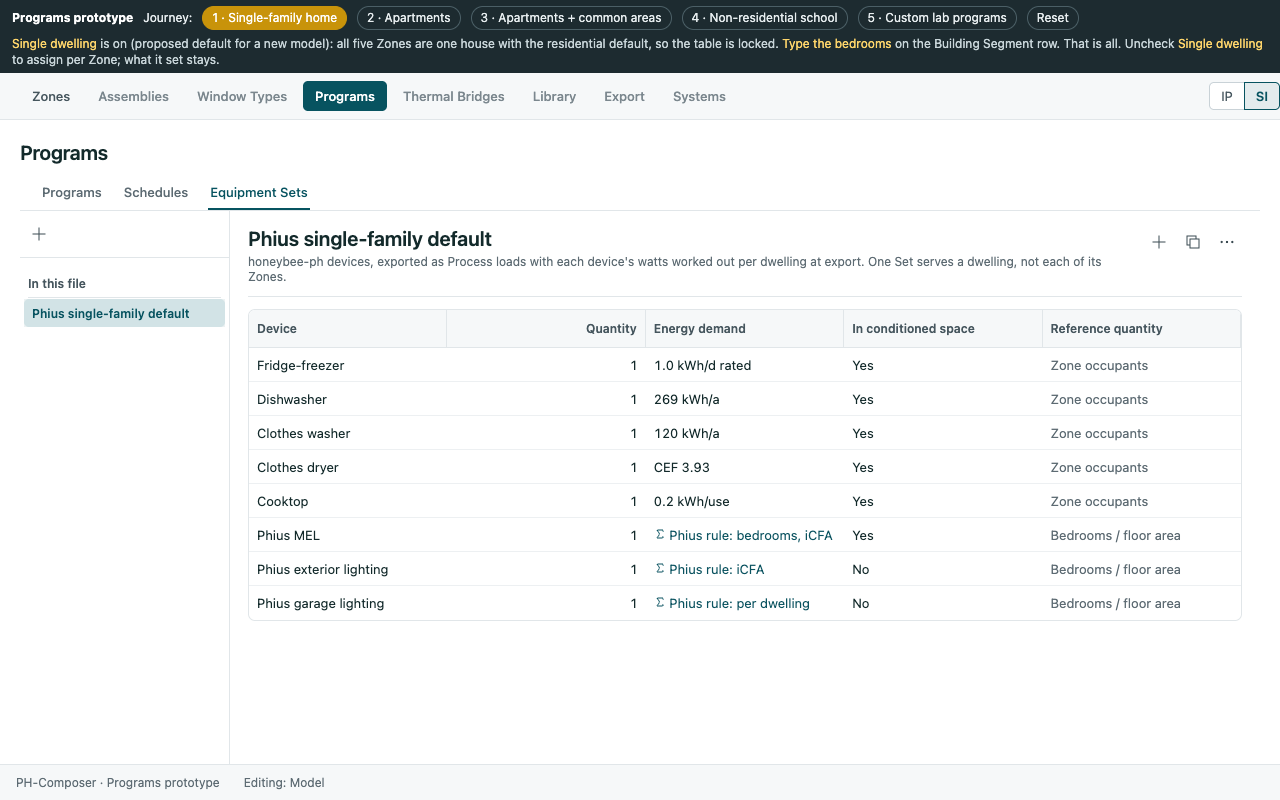
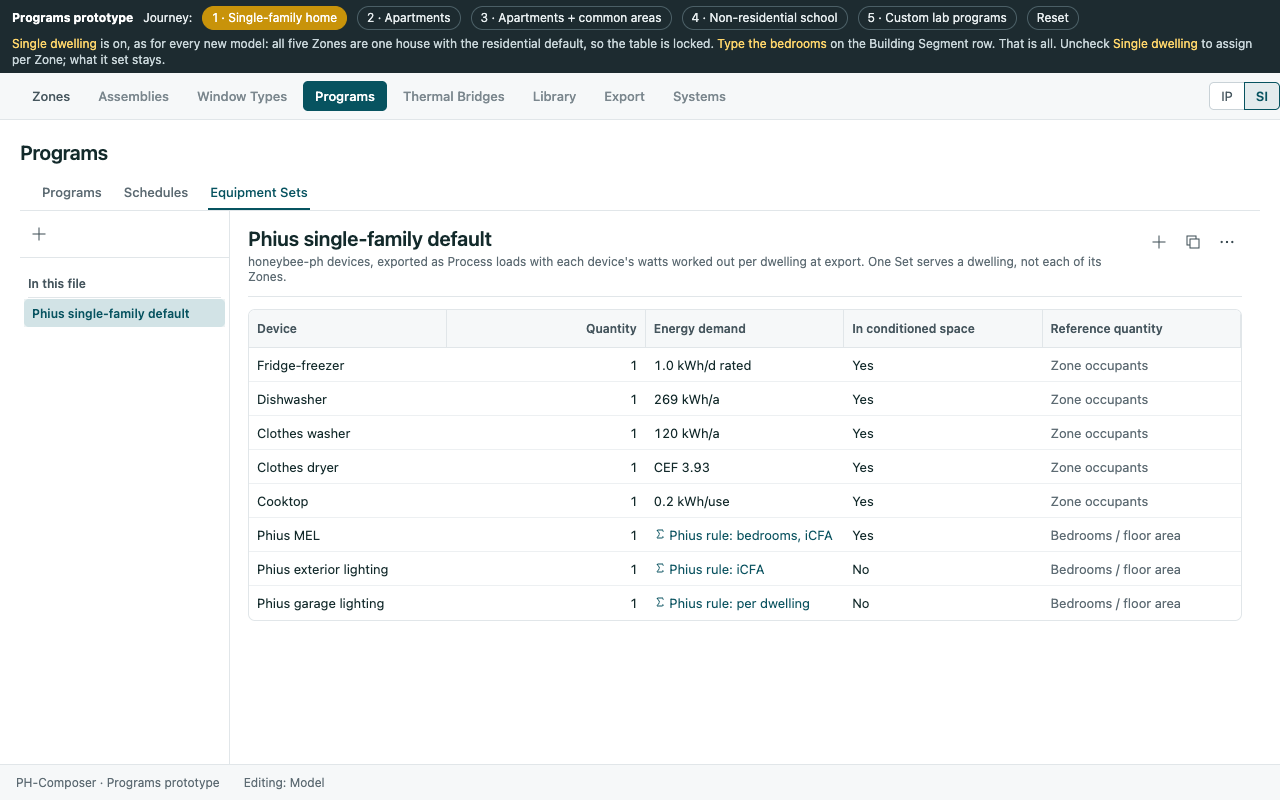
Phase 4a: Single dwelling on by default; Phius values cleared for publication
Q4a-27: every new Model starts as a single dwelling. Q4a-28: the Phius
non-residential programs (Certification Guidebook) and multifamily space
types (Multifamily Lighting and Misc Load Calculator) are public and may
be published in ph-composer-standards, citing source and edition.

Changed region(s): [[0.0, 0.0312, 1.0, 0.0938]]

diff --git a/planning/features/phase-04a-program/mockups/programs.html b/planning/features/phase-04a-program/mockups/programs.html
@@ -319,7 +319,7 @@
 
   // ---------------------------------------------------------------- journeys
   var JOURNEYS = {
-    1: { title: "Single-family home", hint: "<em>Single dwelling</em> is on (proposed default for a new model): all five Zones are one house with the residential default, so the table is locked. <em>Type the bedrooms</em> on the Building Segment row. That is all. Uncheck <em>Single dwelling</em> to assign per Zone; what it set stays." },
+    1: { title: "Single-family home", hint: "<em>Single dwelling</em> is on, as for every new model: all five Zones are one house with the residential default, so the table is locked. <em>Type the bedrooms</em> on the Building Segment row. That is all. Uncheck <em>Single dwelling</em> to assign per Zone; what it set stays." },
     2: { title: "Apartments", hint: "Each Zone is one apartment. <em>Check every Zone</em> → Dwelling: <em>One dwelling each</em>. Then fill Bedrooms per row. Then check <em>Single dwelling</em> to see what it would replace." },
     3: { title: "Apartments + common areas", hint: "Make the six apartments <em>one dwelling each</em>. Then check the two corridors → Program: <em>Indoor Corridor</em> (Phius Multifamily, copied into the file on choice). Do the same for the stair, lobby, office and fitness room, and look at the amber flags." },
     4: { title: "Non-residential school", hint: "The Building Segment is non-residential, so every unassigned Zone is flagged. Check Zones and pick from <em>Phius Non-Residential</em> in the Program choice, or open the <em>Programs</em> tab and browse the library sidebar." },

diff --git a/planning/features/phase-04a-program/DECISIONS.md b/planning/features/phase-04a-program/DECISIONS.md
@@ -1,7 +1,7 @@
 # Phase 4a: findings and open questions
 
 DATE: 2026-11-14
-STATUS: Findings F4a-01 to F4a-23 recorded. Interviewed 2026-11-14: fifteen questions answered, Q4a-08 decided by Claude on Ed's delegation; Q4a-01, Q4a-16 and Q4a-18 open (none gates the prototype). The GUI prototype raised Q4a-19 to Q4a-28; Ed's first review answered Q4a-19, Q4a-20 and Q4a-26.
+STATUS: Findings F4a-01 to F4a-23 recorded. Interviewed 2026-11-14: fifteen questions answered, Q4a-08 decided by Claude on Ed's delegation; Q4a-01, Q4a-16 and Q4a-18 open (none gates the prototype). The GUI prototype raised Q4a-19 to Q4a-28; Ed's first review answered Q4a-19, Q4a-20 and Q4a-26; he answered Q4a-27 and Q4a-28 on 2026-11-15.
 AUTHOR: Ed May, BLDGTYP, with Claude
 ISSUE: none (local planning draft)
 
@@ -86,13 +86,15 @@ F4a-17 to F4a-21.
 
 Ed reviewed the [GUI prototype](mockups/README.md) on 2026-11-14 and accepted its division of
 work: the Programs tab defines Programs, Schedules and Equipment Sets, and Zones → Programs assigns
-them. He answered three of the questions it raised:
+them. He answered three of the questions it raised, and two more on 2026-11-15:
 
 | Id | Answer | What follows |
 | --- | --- | --- |
 | Q4a-19 | **Library files in a new `ph-composer-standards` repository.** Not a separate language-neutral package, and not inside the extension. Programs follow the library pattern of Materials, Window Types and Assemblies: local library files added through Library setup, and remote Connections such as PH-Elements. Only the residential default is built in. The Phius Multifamily and Non-Residential files are generated from honeybee-ph's `PHIUS_programs.py`, so the values have one source | The [standards repository plan](../unscheduled/ph-composer-standards/README.md) also moves `starter-library/` there. Choosing a library Program copies it, with the Schedules it references, into the SKP as editable records, as an Assembly brings its Materials. The Phius files wait on Q4a-28 |
 | Q4a-20 | **An optional library file** in the same repository, generated from honeybee-energy-standards' DOE programs and never shipped with the extension | The user adds it in Library setup like any other file |
 | Q4a-26 | **A Single dwelling switch** at the top of Zones → Programs. When it is on, every Zone is one dwelling with the residential default Program, in one residential Building Segment, and the table is locked: a single-family user enters the bedrooms once and is done. Switching it off opens per-Zone assignment | Claude's design, to confirm in the prototype: the switch is a Model setting and the locked values derive from it rather than being written to each Zone, so a new Zone joins the house without action. The house row takes bedrooms, occupants (Phius rule when empty) and the Equipment Set. Switching off keeps the house dwelling, its counts and the default Program as ordinary assignments. Switching on over per-Zone assignments confirms first and names what gives way: Programs chosen per Zone, extra dwellings, a non-residential category, other Building Segments; per-Zone bedrooms are added up. Forcing one Building Segment overrides the Geometry view's Segment assignment, which the mockup cannot show. Counts held on the dwelling bear on Q4a-24 |
+| Q4a-27 | **On for every new Model.** Single-family is the app's default state | A user modelling apartments or a non-residential building switches it off once. The default belongs to the Model setting (Q4a-26), so nothing is written to a Zone until the user switches it off |
+| Q4a-28 | **Yes, publish them.** The values come from public documents and are not Phius's intellectual property: the non-residential programs from the Phius Certification Guidebook, and the multifamily space types from the Phius Multifamily Lighting and Misc Load Calculator. ph-composer-standards may carry both | Each `phius/` file names its source document and edition. honeybee-ph's `PHIUS_programs.py` cites Guidebook v3.02 Table N-10 and the Multi-Family Calculator of 2021-03-23; check those against the current editions before the files are generated |
 
 Still open, none of them gating the prototype: Q4a-01 (roadmap placement; the roadmap already
 carries Phase 4a before Phase 4), Q4a-16 (Space Types; leaning: always inherit for now) and Q4a-18
@@ -101,7 +103,7 @@ carries Phase 4a before Phase 4), Q4a-16 (Space Types; leaning: always inherit f
 ## Questions the prototype raised
 
 From the [GUI prototype](mockups/README.md), 2026-11-14. Each carries what the prototype shows now;
-Q4a-19, Q4a-20 and Q4a-26 are answered above; the rest are open.
+Q4a-19, Q4a-20, Q4a-26, Q4a-27 and Q4a-28 are answered above; the rest are open.
 
 | Id | Question | The prototype shows |
 | --- | --- | --- |
@@ -113,5 +115,5 @@ Q4a-19, Q4a-20 and Q4a-26 are answered above; the rest are open.
 | Q4a-24 | Bedrooms and occupants per Zone (Q4a-11) make a house of several Zones awkward. Keep per-Zone entry, or enter on the Dwelling when it spans several Zones? | Per Zone, summed in the Dwelling bubble and the Segment row. Under Single dwelling (Q4a-26) they are entered once for the house and stay on the dwelling when the switch is turned off, a working preview of counts on the Dwelling |
 | Q4a-25 | Who supplies the values the Phius data lacks (F4a-23): PH-Composer defaults in the library file, Ed's office standards, or the user each time? | Amber "?" on ventilation and hot water for every library Program; Space airflows replace ventilation where set |
 | Q4a-26 | Ed's Single dwelling switch (2026-11-14) | Answered above |
-| Q4a-27 | Is Single dwelling on by default for a new Model? | On in journey 1, off in journeys 2 to 5. A user modelling apartments switches it off once |
-| Q4a-28 | May the Phius program values be published in the public ph-composer-standards repository, with a note of their source and terms? honeybee-ph already publishes them; Phius's terms decide. Ed to confirm | Not shown. Gates the Phius standards files, not the prototype |
+| Q4a-27 | Is Single dwelling on by default for a new Model? | Answered above. On in journey 1; journeys 2 to 5 start with it off because they model other buildings |
+| Q4a-28 | May the Phius program values be published in the public ph-composer-standards repository, with a note of their source and terms? honeybee-ph already publishes them; Phius's terms decide. Ed to confirm | Answered above |

diff --git a/planning/STATUS.md b/planning/STATUS.md
@@ -35,7 +35,7 @@ reconcile them at each packet's intake rather than treating the old reason as a 
 | cross | Validation and export | feature | In progress; Phase 1 HBJSON/report scope merged to main; later feature scope remains | none (local planning draft) | [features/cross-phase/validation-and-export/](features/cross-phase/validation-and-export/README.md); [evidence](archive/phase-01-faces-and-zones/evidence/p1-e-export-workflow.md); authored Assemblies required in normal composition |
 | cross | Units: SI and IP display | feature | In progress; shared infrastructure and Assembly/Window follow-ups merged | none (local planning draft) | [features/cross-phase/units/](features/cross-phase/units/README.md); audited 2026-10-07; Ruby volume/airflow groundwork merged through PR #84; Spaces integration/layout/performance and later feature quantities remain; U1-F1 repaint fix (F1, F2) merged to main 2026-10-21 (PR #289) for [#154](https://github.com/ph-composer/ph-composer-skp/issues/154), 161 ms with every row open against a 200 ms target; host 169 ms Zones open and 311 ms every row open, accepted by Ed and #154 closed 2026-11-12 |
 | none | Make Zone entry points | feature | Requested; toolbar button and Classify-tool inline offer, carried from zones-and-adjacency | none (local planning draft) | [features/unscheduled/zones-entry-points/](features/unscheduled/zones-entry-points/README.md) |
-| none | ph-composer-standards repository: one home for starter and standards library files | workflow | Requested; plan only (2026-11-14), from the Phase 4a review (Q4a-19, Q4a-20); repository not created | none (local planning draft) | [features/unscheduled/ph-composer-standards/](features/unscheduled/ph-composer-standards/README.md) |
+| none | ph-composer-standards repository: one home for starter and standards library files | workflow | Requested; plan only (2026-11-14), from the Phase 4a review (Q4a-19, Q4a-20); Phius values cleared for publication 2026-11-15 (Q4a-28); repository not created | none (local planning draft) | [features/unscheduled/ph-composer-standards/](features/unscheduled/ph-composer-standards/README.md) |
 | none | METr export | feature | Deferred; return milestone unscheduled | none (local planning draft) | [features/unscheduled/metr-export/](features/unscheduled/metr-export/README.md); Phase 1 row A15; Ed deferred until further feature development on 2026-09-20 |
 | none | SketchUp 2023 floor verification | feature, host gate | Requested | none (local planning draft) | [features/unscheduled/sketchup-2023-floor/](features/unscheduled/sketchup-2023-floor/README.md); no 2023 host run yet |
 | none | Windows support verification | feature, host gate | Requested | none (local planning draft) | [features/unscheduled/windows-support/](features/unscheduled/windows-support/README.md); first release candidate is macOS-only |

diff --git a/planning/features/phase-04a-program/STATUS.md b/planning/features/phase-04a-program/STATUS.md
@@ -17,7 +17,7 @@ The one place this packet's progress is read from.
 | Findings and interview questions | Complete | 2026-11-14 | [DECISIONS.md](DECISIONS.md) |
 | Interview | Complete | 2026-11-14 | [answers](DECISIONS.md#answered): 15 answered, Q4a-08 decided on delegation; Q4a-01, Q4a-16, Q4a-18 open and non-gating |
 | Research after redirects: honeybee-ph Process, occupancy and residential program | Complete | 2026-11-14 | F4a-17 to F4a-21 |
-| UI prototype: Program tab, Zones/Programs page | In review | 2026-11-14 | [mockups/](mockups/README.md): five journeys, Q4a-19 to Q4a-28 raised. First review 2026-11-14: shape accepted; Q4a-19, Q4a-20 and Q4a-26 (Single dwelling switch) answered and prototyped |
+| UI prototype: Program tab, Zones/Programs page | In review | 2026-11-14 | [mockups/](mockups/README.md): five journeys, Q4a-19 to Q4a-28 raised. First review 2026-11-14: shape accepted; Q4a-19, Q4a-20 and Q4a-26 (Single dwelling switch) answered and prototyped; Q4a-27 (switch on by default) and Q4a-28 (Phius values may be published) answered 2026-11-15 |
 | PRD, contracts, stages | Requested | | |
 | GitHub issue | Requested | | Q4a-18 |
 | honeybee-ph and PHX fix for F4a-13 | Requested | | Q4a-08; cross-repo, own authorization |
@@ -30,7 +30,8 @@ The one place this packet's progress is read from.
   (Q4a-03). Nothing in Phase 4 mechanical blocks this packet.
 - Before implementation: choose the honeybee-ph pin for `PhEquipment` (F4a-18).
 - The Phius program library files live in the planned [ph-composer-standards](../unscheduled/ph-composer-standards/README.md)
-  repository (Q4a-19) and wait on Ed's confirmation that the values may be published (Q4a-28).
+  repository (Q4a-19). Ed cleared publishing them on 2026-11-15 (Q4a-28); they wait on the repository
+  and on the Program and Schedule kinds.
 
 ## Verification
 

diff --git a/planning/features/unscheduled/ph-composer-standards/README.md b/planning/features/unscheduled/ph-composer-standards/README.md
@@ -1,7 +1,7 @@
 # ph-composer-standards: one home for library content
 
 DATE: 2026-11-14
-STATUS: Requested. Plan only; creating the repository and changing this one each need Ed's go.
+STATUS: Requested. Plan only; creating the repository and changing this one each need Ed's go. Publishing the Phius values cleared 2026-11-15 (Q4a-28).
 AUTHOR: Ed May, BLDGTYP, with Claude
 ISSUE: none (local planning draft; open one when Ed authorizes the repository)
 
@@ -66,14 +66,18 @@ ph-composer-standards/
    README and LICENSE moved unchanged, and file validation in CI. Needs Ed's go.
 2. **Point this repository at it**: the removals and doc changes above, as one PR.
 3. **Phius Programs** (Phase 4a): the generator and the two files, once PH-Composer registers the
-   Program and Schedule kinds and Q4a-28 is answered.
+   Program and Schedule kinds.
 4. Later, on need: DOE Programs (Q4a-20), starter frames and glazings, equipment.
 
 ## Gates
 
 - Ed's go to create a public repository.
-- Q4a-28: Ed confirms the Phius program values may be published with a note of their source and
-  terms. honeybee-ph already publishes them.
+- Q4a-28, answered 2026-11-15: the Phius values may be published. They come from public documents
+  and are not Phius's intellectual property: the non-residential programs from the Phius
+  Certification Guidebook, the multifamily space types from the Phius Multifamily Lighting and Misc
+  Load Calculator. Each `phius/` README names the document and edition. honeybee-ph cites Guidebook
+  v3.02 Table N-10 and the calculator of 2021-03-23; check both against the current editions
+  before stage 3.
 - Verify, before stage 3 and 4, the licenses of honeybee-ph and honeybee-energy-standards and what
   they mean for data generated from them. Not checked for this plan.
 

diff --git a/planning/features/phase-04a-program/mockups/README.md b/planning/features/phase-04a-program/mockups/README.md
@@ -36,7 +36,8 @@ server. The dark strip at the top picks a journey and says what to try; Reset re
   week, weeks per year) over a 24-hour strip and a week row. The hourly editor is a disabled
   button marked as planned.
 - **Single dwelling**, a checkbox at the top of Zones → Programs (Q4a-26). When on, every Zone is
-  one dwelling, House, with the residential default, in one residential Building Segment. The rows
+  one dwelling, House, with the residential default, in one residential Building Segment. It is on
+  for every new Model (Q4a-27). The rows
   are locked and show their values muted. The Building Segment row becomes the house row: bedrooms,
   occupants (Phius rule when empty) and the Equipment Set are its only inputs. Unchecking keeps
   everything it set as ordinary assignments, with the counts on the dwelling. Checking it over
@@ -58,6 +59,6 @@ Set serves a dwelling while Q4a-21 is open.
 ## Questions the prototype raised
 
 Recorded as Q4a-19 to Q4a-28 in [DECISIONS.md](../DECISIONS.md#questions-the-prototype-raised);
-Q4a-19, Q4a-20 and Q4a-26 are [answered](../DECISIONS.md#answered).
+Q4a-19, Q4a-20, Q4a-26, Q4a-27 and Q4a-28 are [answered](../DECISIONS.md#answered).
 The new words on screen (Program, Schedule, Equipment Set, Dwelling) enter
 `context/UBIQUITOUS_LANGUAGE.md` with the PRD.

diff --git a/planning/features/phase-04a-program/README.md b/planning/features/phase-04a-program/README.md
@@ -72,8 +72,8 @@ until the cross-repo fix for F4a-13 ships (Q4a-08).
 
 ## Next
 
-1. Review the [GUI prototype](mockups/README.md) and answer Q4a-21 to Q4a-25, Q4a-27 and Q4a-28; iterate.
-   Q4a-19, Q4a-20 and Q4a-26 were answered in the first review.
+1. Review the [GUI prototype](mockups/README.md) and answer Q4a-21 to Q4a-25; iterate.
+   Q4a-19, Q4a-20 and Q4a-26 were answered in the first review, Q4a-27 and Q4a-28 on 2026-11-15.
 2. PRD, contracts and stages, worked back from the accepted prototype. Implementation needs
    separate authorization.
 3. Separately: the honeybee-ph and PHX fix for F4a-13 (Q4a-08), in those repositories, starting
